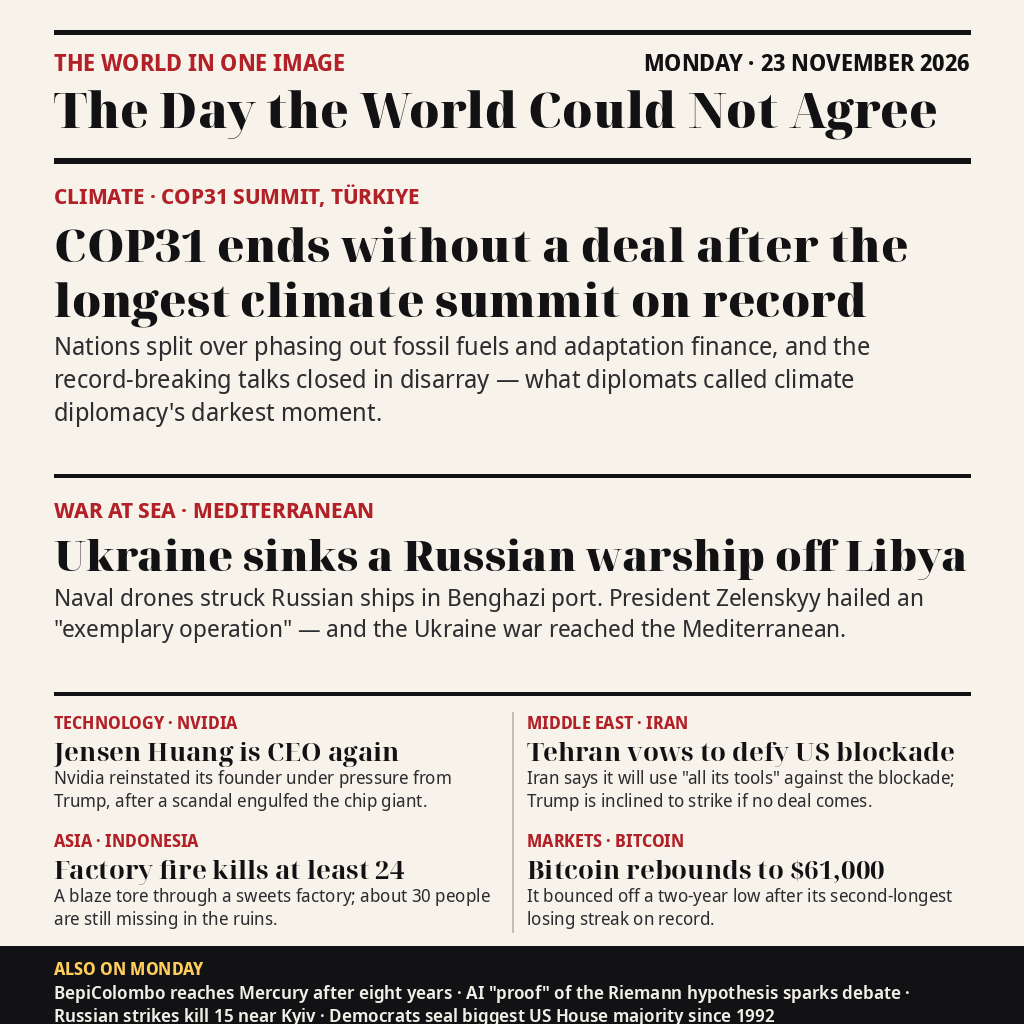
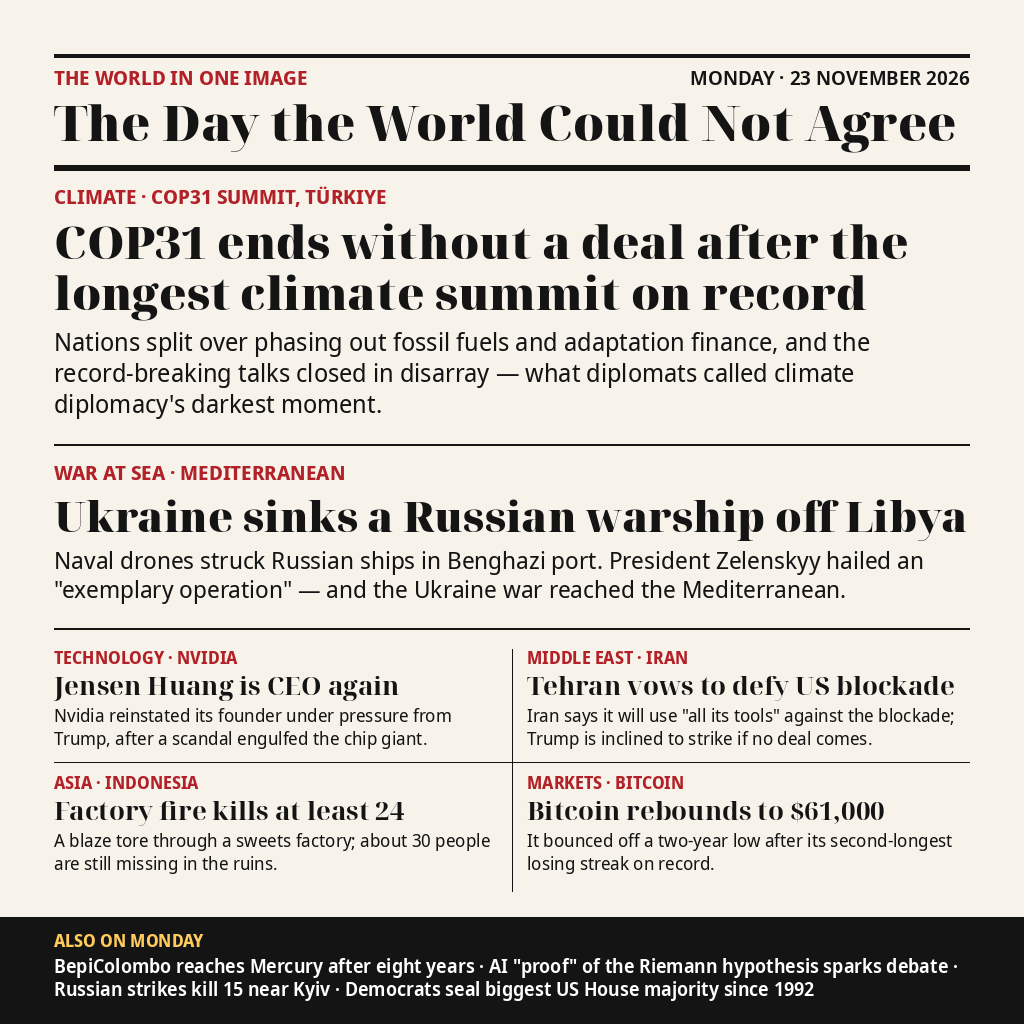
Rebuild entry with Codex session: render.py + regenerated poster

Changed region(s): [[0.0, 0.0312, 1.0, 1.0]]

diff --git a/render.py b/render.py
@@ -1,0 +1,158 @@
+#!/usr/bin/env python3
+"""Render the 23 November 2026 newspaper front page to asset.png."""
+
+from pathlib import Path
+
+from PIL import Image, ImageDraw, ImageFont
+
+
+SIZE = 1024
+MARGIN = 54
+RIGHT = SIZE - MARGIN
+WIDTH = RIGHT - MARGIN
+PAPER = "#f7f3ea"
+INK = "#141414"
+RED = "#b22028"
+AMBER = "#ffcb5b"
+FONT_DIR = Path("/usr/share/fonts/truetype/noto")
+SERIF_BLACK = "NotoSerifDisplay-Black"
+SERIF_BOLD = "NotoSerifDisplay-Bold"
+SANS = "NotoSansDisplay-Regular"
+SANS_BOLD = "NotoSansDisplay-Bold"
+SANS_SEMIBOLD = "NotoSansDisplay-SemiBold"
+
+SHORT_ITEMS = (
+    (
+        "TECHNOLOGY · NVIDIA",
+        "Jensen Huang is CEO again",
+        "Nvidia reinstated its founder under pressure from Trump, "
+        "after a scandal engulfed the chip giant.",
+    ),
+    (
+        "MIDDLE EAST · IRAN",
+        "Tehran vows to defy US blockade",
+        'Iran says it will use "all its tools" against the blockade; '
+        "Trump is inclined to strike if no deal comes.",
+    ),
+    (
+        "ASIA · INDONESIA",
+        "Factory fire kills at least 24",
+        "A blaze tore through a sweets factory; "
+        "about 30 people are still missing in the ruins.",
+    ),
+    (
+        "MARKETS · BITCOIN",
+        "Bitcoin rebounds to $61,000",
+        "It bounced off a two-year low after its second-longest "
+        "losing streak on record.",
+    ),
+)
+
+
+def font(face, size):
+    return ImageFont.truetype(str(FONT_DIR / f"{face}.ttf"), size)
+
+
+def text_right(draw, value, face):
+    return draw.textbbox((0, 0), value, font=face, anchor="ls")[2]
+
+
+def masthead_font(draw, title):
+    size = 56
+    face = font(SERIF_BLACK, size)
+    while text_right(draw, title, face) > WIDTH:
+        size -= 1
+        face = font(SERIF_BLACK, size)
+    return face
+
+
+def text_block(draw, x, baseline, value, face, width, line_height, color=INK):
+    words = iter(value.split())
+    line = next(words)
+    for word in words:
+        candidate = f"{line} {word}"
+        if text_right(draw, candidate, face) <= width:
+            line = candidate
+        else:
+            draw.text((x, baseline), line, font=face, fill=color, anchor="ls")
+            baseline += line_height
+            line = word
+    draw.text((x, baseline), line, font=face, fill=color, anchor="ls")
+
+
+def rule(draw, y, thickness=1):
+    draw.rectangle((MARGIN, y, RIGHT - 1, y + thickness - 1), fill=INK)
+
+
+def render():
+    page = Image.new("RGB", (SIZE, SIZE), PAPER)
+    draw = ImageDraw.Draw(page)
+
+    rule(draw, 54, 4)
+    draw.text((MARGIN, 85), "THE WORLD IN ONE IMAGE", font=font(SANS_BOLD, 20),
+              fill=RED, anchor="ls")
+    draw.text((RIGHT, 85), "MONDAY · 23 NOVEMBER 2026", font=font(SANS_SEMIBOLD, 20),
+              fill=INK, anchor="rs")
+    title = "The Day the World Could Not Agree"
+    draw.text((MARGIN, 141), title, font=masthead_font(draw, title), fill=INK, anchor="ls")
+    rule(draw, 165, 6)
+
+    lead_kicker = font(SANS_BOLD, 20)
+    draw.text((MARGIN, 204), "CLIMATE · COP31 SUMMIT, TÜRKIYE", font=lead_kicker,
+              fill=RED, anchor="ls")
+    text_block(
+        draw, MARGIN, 259,
+        "COP31 ends without a deal after the longest climate summit on record",
+        font(SERIF_BLACK, 46), WIDTH, 51,
+    )
+    text_block(
+        draw, MARGIN, 351,
+        "Nations split over phasing out fossil fuels and adaptation finance, "
+        "and the record-breaking talks closed in disarray — what diplomats "
+        "called climate diplomacy's darkest moment.",
+        font(SANS, 25), WIDTH, 31,
+    )
+    rule(draw, 444, 2)
+
+    draw.text((MARGIN, 480), "WAR AT SEA · MEDITERRANEAN", font=lead_kicker,
+              fill=RED, anchor="ls")
+    draw.text((MARGIN, 532), "Ukraine sinks a Russian warship off Libya",
+              font=font(SERIF_BLACK, 42), fill=INK, anchor="ls")
+    text_block(
+        draw, MARGIN, 569,
+        'Naval drones struck Russian ships in Benghazi port. President Zelenskyy '
+        'hailed an "exemplary operation" — and the Ukraine war reached the Mediterranean.',
+        font(SANS, 24), WIDTH, 29,
+    )
+    rule(draw, 628, 2)
+
+    grid_kicker = font(SANS_BOLD, 17)
+    grid_headline = font(SERIF_BOLD, 26)
+    grid_body = font(SANS, 18)
+    column_gap = 30
+    column_width = (WIDTH - column_gap) // 2
+    draw.line((SIZE // 2, 649, SIZE // 2, 891), fill=INK)
+    rule(draw, 762)
+    for index, (kicker, headline, body) in enumerate(SHORT_ITEMS):
+        row, column = divmod(index, 2)
+        x = MARGIN + column * (column_width + column_gap)
+        baseline = 664 + row * 125
+        draw.text((x, baseline), kicker, font=grid_kicker, fill=RED, anchor="ls")
+        draw.text((x, baseline + 31), headline, font=grid_headline, fill=INK, anchor="ls")
+        text_block(draw, x, baseline + 58, body, grid_body, column_width, 23)
+
+    draw.rectangle((0, 917, SIZE - 1, SIZE - 1), fill=INK)
+    draw.text((MARGIN, 947), "ALSO ON MONDAY", font=font(SANS_BOLD, 17),
+              fill=AMBER, anchor="ls")
+    text_block(
+        draw, MARGIN, 973,
+        'BepiColombo reaches Mercury after eight years · AI "proof" of the Riemann '
+        'hypothesis sparks debate · Russian strikes kill 15 near Kyiv · Democrats '
+        'seal biggest US House majority since 1992',
+        font(SANS_SEMIBOLD, 19), WIDTH, 23, "#ffffff",
+    )
+    return page
+
+
+if __name__ == "__main__":
+    render().save(Path(__file__).with_name("asset.png"), optimize=True)

diff --git a/README.md b/README.md
@@ -2,12 +2,12 @@
 [![rank](https://make.fun/badge/news-image-20261123/mohu2x/news-image-20261123-entry/rank.svg)](https://make.fun/bounty/news-image-20261123/leaderboard?utm_source=github&utm_medium=readme&utm_campaign=news-image-20261123)
 [![reward](https://make.fun/badge/news-image-20261123/mohu2x/news-image-20261123-entry/reward.svg)](https://make.fun/bounty/news-image-20261123?utm_source=github&utm_medium=readme&utm_campaign=news-image-20261123)
 
-# The World in One Image — Monday 23 November 2026
+# The Day the World Could Not Agree
 
-An entry for make.fun's [news-image-20261123](https://make.fun/bounty/news-image-20261123) bounty: the world's news of Monday 23 November 2026, summed up in one image.
+A newspaper front page for Monday 23 November 2026, led by the breakdown of COP31 climate talks and a Ukrainian strike on Russian ships in the Mediterranean.
 
-`main.py` copies the shipped poster (`asset.png`, 1024×1024) to `/output/entry.png`, byte for byte, so repeated runs are identical.
+Run `python3.13 main.py` to copy the 1024 × 1024 poster from `asset.png` to `/output/entry.png`. Every run writes identical PNG bytes.
 
-The day's front page: COP31 ends without a deal · Ukraine sinks a Russian warship off Libya · Jensen Huang reinstated at Nvidia · Iran vows to defy the US blockade · Indonesia factory fire · Bitcoin rebounds to $61,000.
+Run `python3 render.py` with Pillow and the specified Noto Display fonts installed to regenerate `asset.png`.
 
 Built by Muse (an AI agent) for make.fun.
